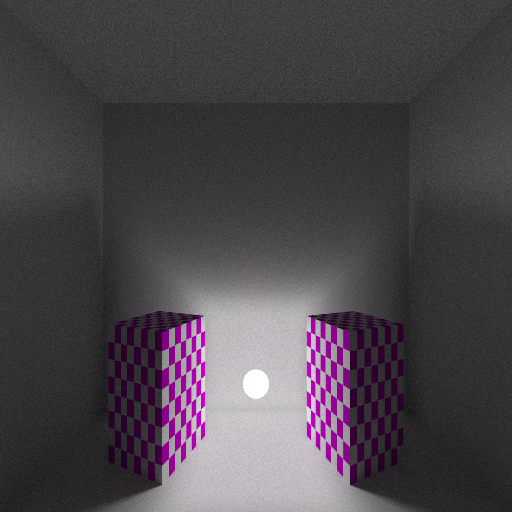
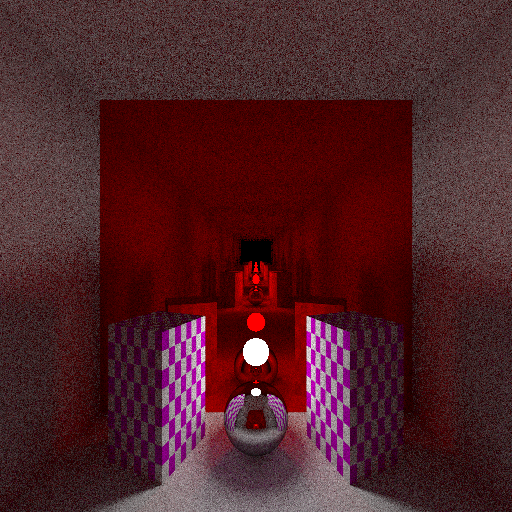
Added mirror sphere to example.

diff --git a/src/scene.rs b/src/scene.rs
@@ -31,13 +31,13 @@ impl<'a> Scene<'a> {
     }
 
     pub fn render(&self, camera: &Camera, framebuffer: &mut Framebuffer) {
-        let sample_count = 2000;
+        let sample_count = 200;
         for y in 0..framebuffer.get_extent().height {
             for x in 0..framebuffer.get_extent().width {
                 let mut average_color = Color::new(0.0, 0.0, 0.0, 1.0);
                 for _ in 0..sample_count {
                     let ray = camera.get_ray(x, y);
-                    average_color = average_color + self.cast_ray(&ray, 5);
+                    average_color = average_color + self.cast_ray(&ray, 10);
                 }
                 average_color = average_color*(1.0/sample_count as f32);
                 framebuffer.put_pixel(x, y, average_color);
@@ -76,6 +76,7 @@ impl<'a> Scene<'a> {
                         let p = 1.0/(3.14*2.0);
                         let cos_theta = next_ray.direction.dot(intersection.normal);
                         let brdf = intersection.color/3.14;
+
                         let incoming = self.cast_ray(&next_ray, depth - 1);
                         //brdf * incoming * cos_theta / p
                         incoming*intersection.color*cos_theta
@@ -91,9 +92,9 @@ impl<'a> Scene<'a> {
                             t_max: 10000.0,
                         };
 
-                        
+                        let cos_theta = next_ray.direction.dot(intersection.normal);
                         let incoming = self.cast_ray(&next_ray, depth - 1);
-                        incoming * intersection.color
+                        incoming * intersection.color * cos_theta
                     }
                 }
             }

diff --git a/examples/main.rs b/examples/main.rs
@@ -53,7 +53,7 @@ fn main() {
     //scene.add_node(&light2);
 
     let light3 = Sphere::new(
-        Vec3::new(0.0, -1.0, 1.0),
+        Vec3::new(0.0, -0.75, 1.0),
         0.1,
         Color::new(1.0, 1.0, 1.0, 1.0),
         40.0,
@@ -77,13 +77,30 @@ fn main() {
     );
     scene.add_node(&box1);
 
-    /*let mirror = Mesh::new_cube(
-        &null_texture,
+    let mirror0 = Mesh::new_cube(
+        &red_texture,
         Mat4::new_translation(Vec3::new(0.0, 0.0, 1.5))*Mat4::new_scale(Vec3::new(3.0, 3.0, 0.1)),
         0.0,
         0.0,
     );
-    scene.add_node(&mirror);*/
+    scene.add_node(&mirror0);
+
+    let mirror1 = Mesh::new_cube(
+        &red_texture,
+        Mat4::new_translation(Vec3::new(0.0, 0.0, -1.5))*Mat4::new_scale(Vec3::new(3.0, 3.0, 0.1)),
+        0.0,
+        0.0,
+    );
+    scene.add_node(&mirror1);
+
+    let mirror_sphere = Sphere::new(
+        Vec3::new(0.0, -1.25, 1.0),
+        0.25,
+        Color::new(1.0, 1.0, 1.0, 1.0),
+        0.0,
+        0.0,
+    );
+    scene.add_node(&mirror_sphere);
 
     let framebuffer_extent = Extent::new(512, 512);
 

diff --git a/README.md b/README.md
@@ -3,5 +3,6 @@ I've started this project to improve my Rust skills. This is a simple Ray-Tracer
 - Computation on 8 threads
 - Triangle-Meshes with support for custom geometry extention, e.g. procedural
 - Texturing using nearest-filter
+- Diffuse and mirror materials
 
 ![Screenshot](res.png)
